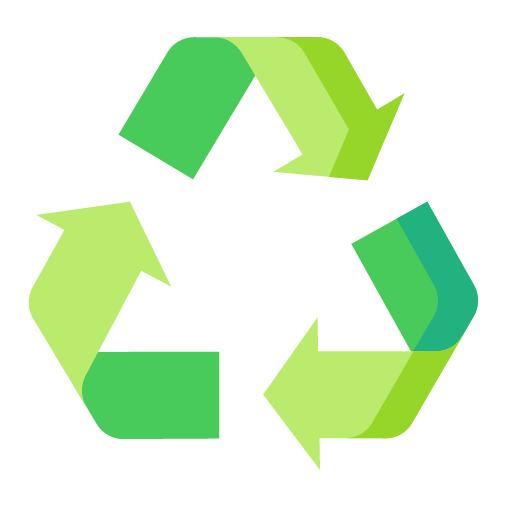
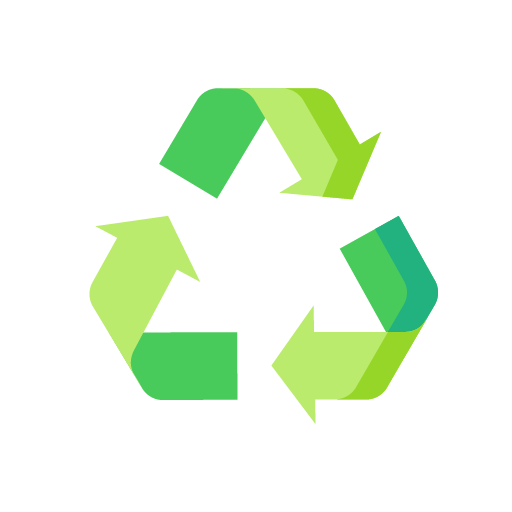
iconen en tekst

Changed region(s): [[0.0312, 0.375, 0.4688, 0.875], [0.2188, 0.0625, 0.7812, 0.4062], [0.5, 0.375, 0.9375, 0.9062]]

diff --git a/assets/css/main.css b/assets/css/main.css
@@ -262,13 +262,14 @@ nav ul .navitem:not(.first) a:hover::after {
 #steps .stepscontainer .step .stepicon {
   display: block;
   margin: 0 auto;
-  width: 100px;
-  max-height: 100px;
-  margin-bottom: 15px;
+  width: 150px;
+  max-height: 150px;
+  margin-bottom: 30px;
 }
 
 #steps .stepscontainer .step h1 {
   text-align: center;
+  margin-bottom: 30px;
 }
 
 #steps .stepscontainer .step p {

diff --git a/assets/css/main.scss b/assets/css/main.scss
@@ -265,13 +265,14 @@ nav {
       .stepicon {
         display: block;
         margin: 0 auto;
-        width: 100px;
-        max-height: 100px;
-        margin-bottom: $space;
+        width: 150px;
+        max-height: 150px;
+        margin-bottom: $space2;
       }
 
       h1 {
         text-align: center;
+        margin-bottom: $space2;
       }
 
       p {

diff --git a/site/templates/default.php b/site/templates/default.php
@@ -137,15 +137,7 @@
                     <?php endif ?>
                     <h1>2. Comfort</h1>
                     <p>
-                        Het is van groot belang dat klanten zich thuis voelen in je winkel. Een kale muur of een
-                        karakterloos decor, is niet meer van deze tijd. Als klanten zich wél thuis voelen in je winkel,
-                        dan blijven ze langer en dit zorgt voor een betere omzet. Een winkel moet tegenwoordig zo in
-                        elkaar zitten, dat als je binnen komt lopen, het ‘instagram ready’ moet zijn. Een klant moet een
-                        foto ervan kunnen maken en het zo kunnen delen dat er weinig bewerking nodig is. Comfort staat
-                        niet alleen voor de inrichting maar ook voor gebruiksgemak. Iedereen heeft een Smartphone en
-                        veel gebruiken programma’s als Snapchat & Instagram. Deze programma’s zijn bekend en dus
-                        makkelijk in te zetten voor bedrijven. Chocomel heeft dit bijv. ingezet bij de Chocomel letters.
-                        Deze letters worden via Snapchat online gedeeld
+                    Het is van groot belang dat klanten zich thuis voelen in je winkel. Een kale muur of een karakterloos decor, is niet meer van deze tijd. Een winkel moet tegenwoordig zo in elkaar zitten, dat als je binnen komt lopen, het ‘instagram ready’ moet zijn. Een foto zou onbewerkt het internet op kunnen gaan. Comfort staat niet alleen voor de inrichting maar ook voor gebruiksgemak. Iedereen heeft een Smartphone en veel mensen maken gebruik van programma’s als Snapchat & Instagram. Deze programma’s zijn bekend en dus makkelijk in te zetten voor bedrijven. Chocomel heeft dit bijv. ingezet bij de Chocomel letters. Deze letters worden via Snapchat online gedeeld.
                     </p>
                 </div>
 
@@ -172,14 +164,9 @@
                     <?php endif ?>
                     <h1>4. Duurzaamheid</h1>
                     <p>
-                        Elk global brand, van Coca Cola tot Apple, streeft naar een zo milieuvriendelijk mogelijke
-                        productieketen. Materiaalkeuze is hier ook van belang, er zijn allerlei materialen beschikbaar
-                        die je ecologische afdruk verminderen. Denk aan opvouwbare textielen die zorgen voor minder
-                        volume, waardoor verpakking, opslag en vervoer efficiënter en milieuvriendelijker worden.
-                        Duurzaamheid gaat, los van productieproces en materiaalkeuze, ook daadwerkelijk hand in hand met
-                        de visuele uitstraling van een merk. In deze tijd, waarbij het milieu elke dag weer hoog in het
-                        nieuws komt, is het ongeloofwaardig als je merkverhaal hierop achterloopt. Je kan flinke
-                        imagoschade oplopen als je erg milieuonvriendelijk produceert.
+                    Elk global brand streeft naar een zo milieuvriendelijk mogelijke productieketen. Materiaalkeuze is hier ook van belang, denk bijv. aan opvouwbare textielen die zorgen voor minder volume, waardoor verpakking, opslag en vervoer efficiënter en milieuvriendelijker worden.
+                    Duurzaamheid gaat, los van productieproces en materiaalkeuze, ook daadwerkelijk hand in hand met de visuele uitstraling van een merk. In deze tijd, waarbij het milieu elke dag weer hoog in het nieuws komt, is het ongeloofwaardig als je merkverhaal hierop achterloopt. Je kan flinke imagoschade oplopen als je erg milieuonvriendelijk produceert
+
 
                     </p>
                 </div>
